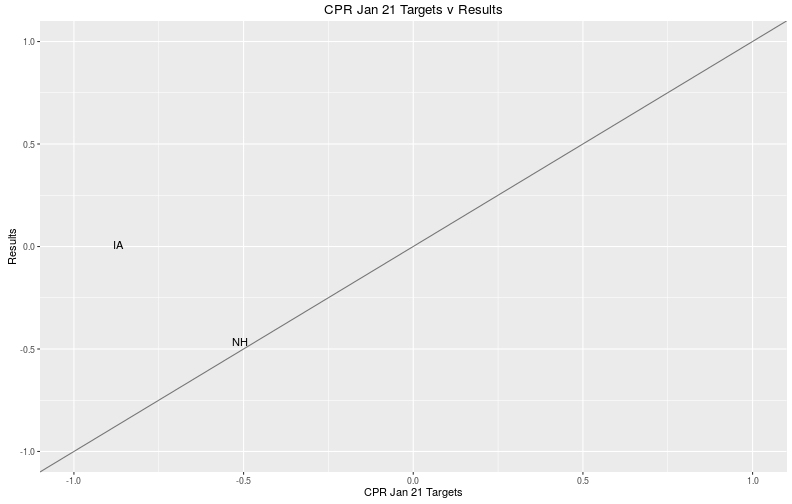
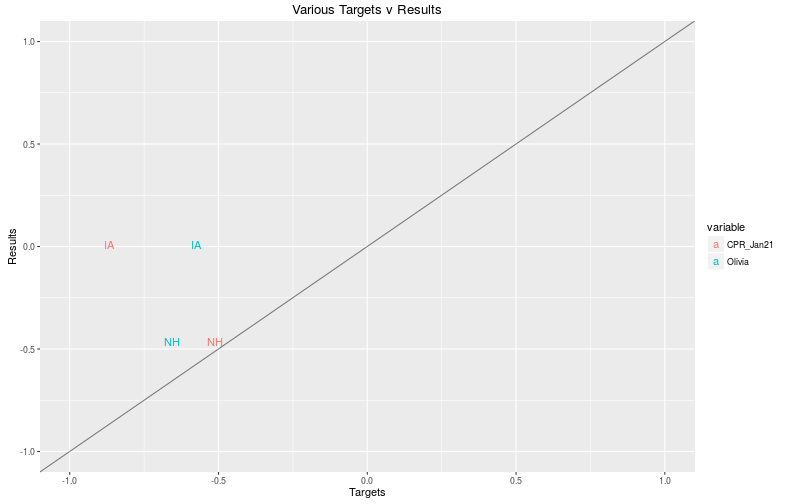
Added my targets to the target page

diff --git a/targets.md b/targets.md
@@ -12,7 +12,10 @@ An explanation for these plot can be found with [my first blog post]({% post_url
 Essentially, states above the diagonal are where Clinton exceeded targets, below Sanders is exceeding target.
 Arbitrarely, positive indicates "Clinton-ness", 0 is neutral and negative is "Sanders-ness".
 
-The targets used are from the [Cook Political Report, Jan 21](http://cookpolitical.com/story/9179).
-More to come soon!
-
 ![center](/../figs/targets/unnamed-chunk-1-1.png)
+
+The targets used are:
+
+- [Cook Political Report, Jan 21](http://cookpolitical.com/story/9179).
+- [my first attempt]({% post_url 2016-02-15-targets---FiveThirtyEight-edition %}) (`white*2012 Democratic vote share`)
+- more to come soon!

diff --git a/_posts/2016-02-15-targets---FiveThirtyEight-edition.md b/_posts/2016-02-15-targets---FiveThirtyEight-edition.md
@@ -314,7 +314,7 @@ targets <- data.frame(state = dem_primary$State,
                            my_Clinton_target = dem_primary$my_Clinton_target,
                            CPR_Sanders_target = dem_primary$CPR_Sanders_LOR,
                            CPR_Clinton_target = -dem_primary$CPR_Sanders_LOR)
-write.csv(targets, "2016-dem-primary-targets.csv")
+write.csv(targets, "2016-dem-primary-targets.csv", row.names = FALSE)
 {% endhighlight %}
 
 Further research
